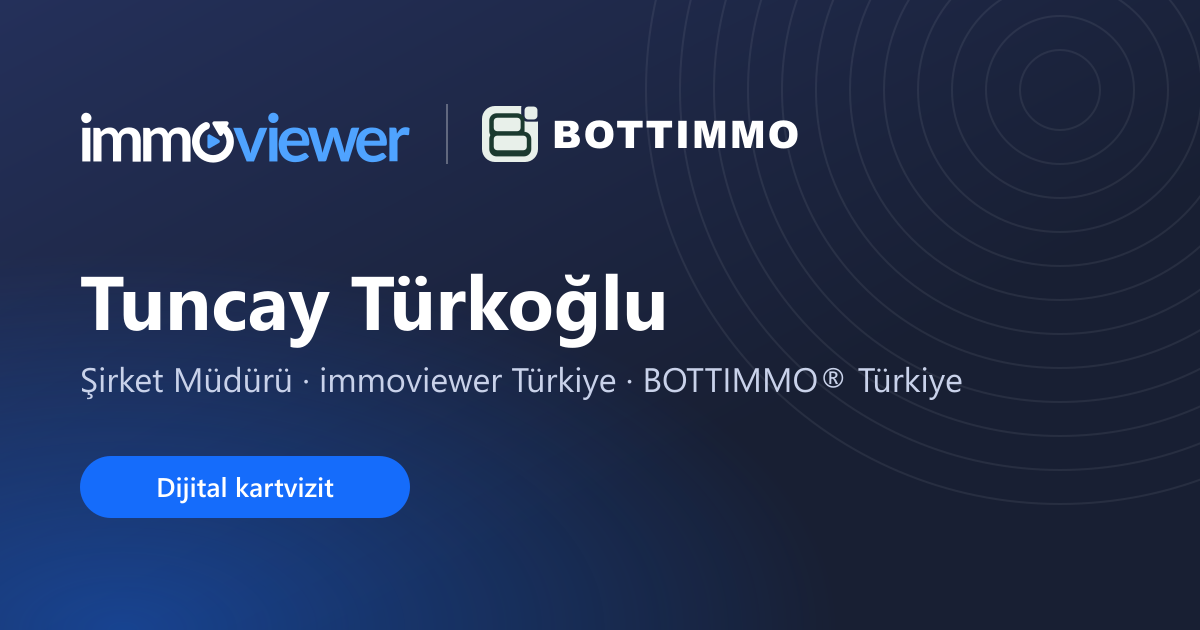
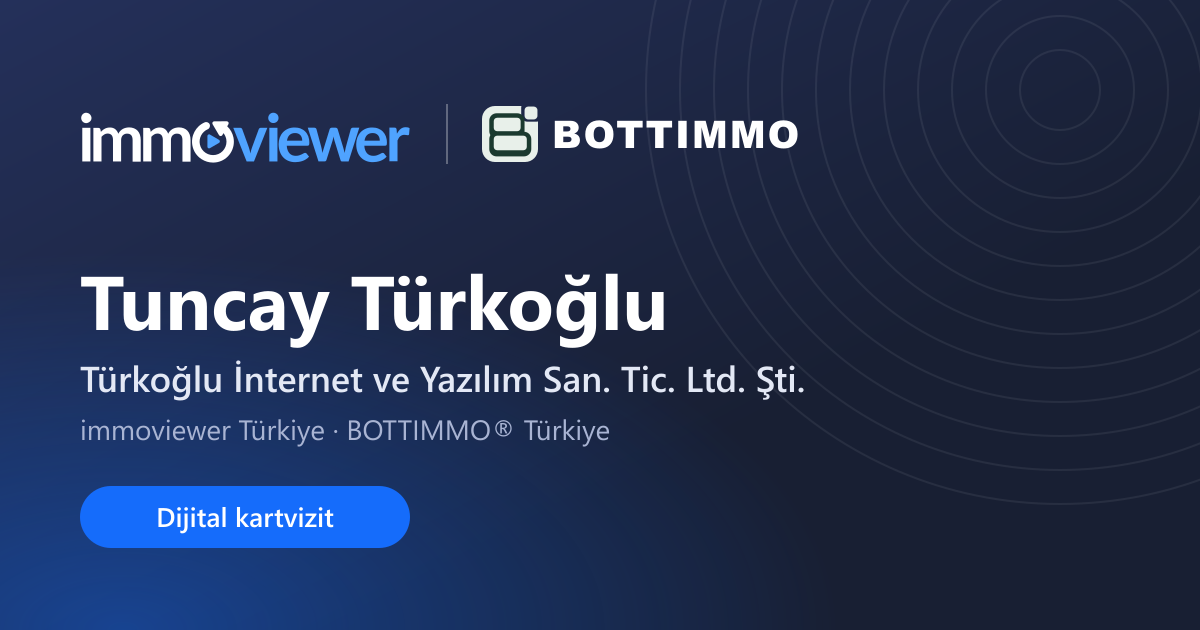
Kartvizit: ismin altında unvan yerine şirket adı
"Şirket Müdürü" kaldırıldı; ismin altında Türkoğlu İnternet ve Yazılım
San. Tic. Ltd. Şti. yazıyor. Rehber kartında şirket adı ana kurum oldu,
paylaşım mesajı ve önizleme görseli de buna göre güncellendi.

Changed region(s): [[0.0617, 0.573, 0.8017, 0.6333], [0.0617, 0.7238, 0.3392, 0.8746], [0.0617, 0.6635, 0.5242, 0.7238]]

diff --git a/index.html b/index.html
@@ -4,7 +4,7 @@
 <meta charset="utf-8">
 <meta name="viewport" content="width=device-width, initial-scale=1, viewport-fit=cover">
 <title>Tuncay Türkoğlu · Dijital Kartvizit</title>
-<meta name="description" content="Tuncay Türkoğlu · Şirket Müdürü, immoviewer Türkiye · BOTTIMMO® Türkiye. Telefon, e-posta ve adres; tek dokunuşla rehbere kaydedin.">
+<meta name="description" content="Tuncay Türkoğlu · Türkoğlu İnternet ve Yazılım San. Tic. Ltd. Şti. · immoviewer Türkiye · BOTTIMMO® Türkiye. Telefon, e-posta ve adres; tek dokunuşla rehbere kaydedin.">
 <meta name="theme-color" content="#181F33">
 <link rel="canonical" href="https://turkotr58-lang.github.io/kartvizit/">
 <link rel="manifest" href="manifest.webmanifest">
@@ -15,7 +15,7 @@
 <meta name="apple-mobile-web-app-title" content="Kartvizitim">
 <meta name="apple-mobile-web-app-status-bar-style" content="black-translucent">
 <meta property="og:type" content="profile">
-<meta property="og:title" content="Tuncay Türkoğlu · Şirket Müdürü">
+<meta property="og:title" content="Tuncay Türkoğlu · Türkoğlu İnternet ve Yazılım San. Tic. Ltd. Şti.">
 <meta property="og:description" content="immoviewer Türkiye · BOTTIMMO® Türkiye. Dijital kartvizit: tek dokunuşla rehbere kaydedin.">
 <meta property="og:url" content="https://turkotr58-lang.github.io/kartvizit/">
 <meta property="og:image" content="https://turkotr58-lang.github.io/kartvizit/img/og.png">
@@ -26,9 +26,9 @@
 <link rel="preconnect" href="https://fonts.googleapis.com">
 <link rel="preconnect" href="https://fonts.gstatic.com" crossorigin>
 <link rel="stylesheet" href="https://fonts.googleapis.com/css2?family=Archivo:wght@900&family=Inter:wght@400;500;600;700&display=swap">
-<link rel="stylesheet" href="styles.css?v=14b7f0aa64">
-<script defer src="vendor/qrcode.js?v=14b7f0aa64"></script>
-<script type="module" src="app.js?v=14b7f0aa64"></script>
+<link rel="stylesheet" href="styles.css?v=abad5b340d">
+<script defer src="vendor/qrcode.js?v=abad5b340d"></script>
+<script type="module" src="app.js?v=abad5b340d"></script>
 </head>
 <body>
 <svg width="0" height="0" style="position:absolute" aria-hidden="true"><defs>
@@ -50,7 +50,7 @@
   <section class="id">
     <div class="avatar"><span aria-hidden="true">TT</span></div>
     <h1>Tuncay Türkoğlu</h1>
-    <p class="role">Şirket Müdürü</p>
+    <p class="role">Türkoğlu İnternet ve Yazılım<br>San. Tic. Ltd. Şti.</p>
     <p class="org">
       <a class="chip iv" href="https://www.immoviewer.tech" target="_blank" rel="noopener"><span class="brand">immoviewer Türkiye</span></a>
       <a class="chip bt" href="https://turkotr58-lang.github.io/bottimmo-tr/" target="_blank" rel="noopener">BOTTIMMO® Türkiye Distribütörü</a>
@@ -125,7 +125,7 @@
       <span class="bt"><svg class="" viewBox="0 0 100 100" aria-hidden="true"><use href="#bottimmo-mark"/></svg><span class="wordmark">BOTTIMMO</span></span>
     </div>
     <h2 id="qrTitle">Tuncay Türkoğlu</h2>
-    <p class="qr-sub">Şirket Müdürü · <span class="brand">immoviewer Türkiye</span></p>
+    <p class="qr-sub">Türkoğlu İnternet ve Yazılım<br>San. Tic. Ltd. Şti.</p>
     <div class="qr-box" id="qrBox" role="img"></div>
     <div class="seg" role="tablist" aria-label="QR türü">
       <button type="button" role="tab" data-mode="web" aria-selected="true">Web kartvizit</button>

diff --git a/card.js b/card.js
@@ -9,7 +9,8 @@ export const CARD = {
 
   firstName: 'Tuncay',
   lastName: 'Türkoğlu',
-  title: 'Şirket Müdürü',
+  // Unvan: boş bırakılırsa hiçbir yerde gösterilmez. İsmin altında şirket adı (company) yazar.
+  title: '',
   company: 'Türkoğlu İnternet ve Yazılım San. Tic. Ltd. Şti.',
   companyShort: 'Türkoğlu İnt. ve Yaz. Ltd. Şti.',
   org: 'immoviewer Türkiye',
@@ -99,22 +100,23 @@ export function toVCard(c = CARD, { compact = false, photo = '' } = {}) {
       'VERSION:3.0',
       `N:${esc(c.lastName)};${esc(c.firstName)}`,
       `FN:${esc(fullName(c))}`,
-      `ORG:${esc(c.org)}`,
-      `TITLE:${esc(c.title)}`,
+      `ORG:${esc(c.company)}`,
+      c.title && `TITLE:${esc(c.title)}`,
       `TEL;TYPE=CELL:${c.phone}`,
       `EMAIL:${c.email}`,
       `URL:${c.brands.immoviewer.url}`,
       `ADR:;;${esc(a.street.split(',').pop().trim())} ${esc(a.building.match(/\d[\d/-]*/)?.[0] || '')};${esc(a.district)};${esc(a.city)};${esc(a.postal)};${esc(a.country)}`,
       'END:VCARD',
-    ].join('\r\n');
+    ].filter(Boolean).join('\r\n');
   }
   const L = [
     'BEGIN:VCARD',
     'VERSION:3.0',
     `N:${esc(c.lastName)};${esc(c.firstName)};;;`,
     `FN:${esc(fullName(c))}`,
-    `ORG:${esc(c.org)};${esc(compact ? c.companyShort : c.company)}`,
-    `TITLE:${esc(c.title)}`,
+    // Şirket (asıl) ; bölüm/marka
+    `ORG:${esc(c.company)};${esc(c.org)}`,
+    ...(c.title ? [`TITLE:${esc(c.title)}`] : []),
     `TEL;TYPE=CELL,VOICE:${c.phone}`,
     `EMAIL;TYPE=INTERNET,WORK:${c.email}`,
     `item1.URL:${c.brands.immoviewer.url}`,

diff --git a/styles.css b/styles.css
@@ -115,7 +115,8 @@ svg.b{width:20px;height:20px;flex-shrink:0;fill:currentColor;}
 }
 .avatar img{width:100%;height:100%;object-fit:cover;display:block;}
 h1{margin:14px 0 2px;font-size:28px;line-height:1.15;font-weight:700;letter-spacing:-.015em;}
-.role{margin:0;color:var(--text-2);font-size:16px;font-weight:500;}
+.role{margin:2px auto 0;max-width:300px;color:var(--text-2);font-size:16px;font-weight:600;line-height:1.35;text-wrap:balance;}
+.role-sub{margin:2px 0 0;color:var(--text-3);font-size:14.5px;}
 .org{margin:10px 0 0;display:flex;flex-wrap:wrap;justify-content:center;gap:8px;}
 .chip{
   display:inline-flex;align-items:center;gap:6px;
@@ -246,7 +247,7 @@ h1{margin:14px 0 2px;font-size:28px;line-height:1.15;font-weight:700;letter-spac
 .qr-lock svg{width:21px;height:21px;--logo-square:#24463A;--logo-letter:#FFFFFF;}
 .qr-lock .wordmark{font-size:13.5px;color:#24463A;}
 .qr h2{margin:0;font-size:24px;font-weight:700;letter-spacing:-.01em;}
-.qr-sub{margin:2px 0 0;color:#4A5370;font-size:15px;}
+.qr-sub{margin:2px auto 0;max-width:320px;color:#4A5370;font-size:15px;line-height:1.35;text-wrap:balance;}
 .qr-box{
   margin:18px 0 0;width:min(86vw,62vh,380px);aspect-ratio:1;
   padding:10px;border-radius:24px;background:#fff;

diff --git a/app.js b/app.js
@@ -109,7 +109,7 @@ function toast(msg) {
 }
 
 // Paylaşım metni: bağlantı en sonda, WhatsApp vb. önizleme kartını (logo + ad) ondan üretir.
-const shareText = () => `${CARD.shareText}\n${fullName()} · ${CARD.title}\n${CARD.org} · ${CARD.brands.bottimmo.name}`;
+const shareText = () => `${CARD.shareText}\n${fullName()}\n${CARD.company}\n${CARD.org} · ${CARD.brands.bottimmo.name}`;
 const shareMessage = () => `${shareText()}\n${pageUrl()}`;
 
 async function copyLink() {

diff --git a/sw.js b/sw.js
@@ -1,5 +1,5 @@
 // Çevrimdışı önbellek: kartvizit ve QR ekranı internet yokken de açılır.
-const CACHE = 'kartvizit-14b7f0aa64';
+const CACHE = 'kartvizit-abad5b340d';
 const FONTS = 'kartvizit-fonts';
 const ASSETS = ["./","index.html","card.js","app.js","styles.css","vendor/qrcode.js","img/immoviewer.svg","img/immoviewer-white.svg","pwa/favicon.svg","pwa/icon-192.png","pwa/apple-touch-icon.png","manifest.webmanifest","tuncay-turkoglu.vcf"];
 
